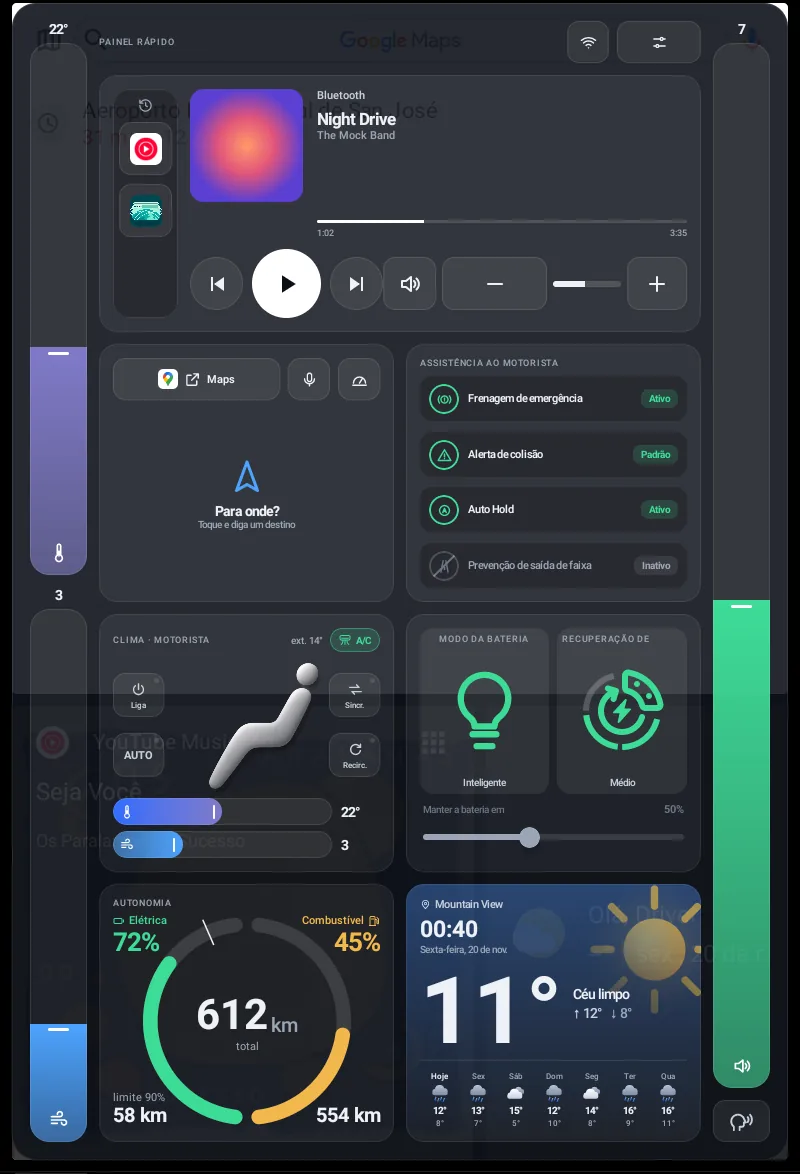
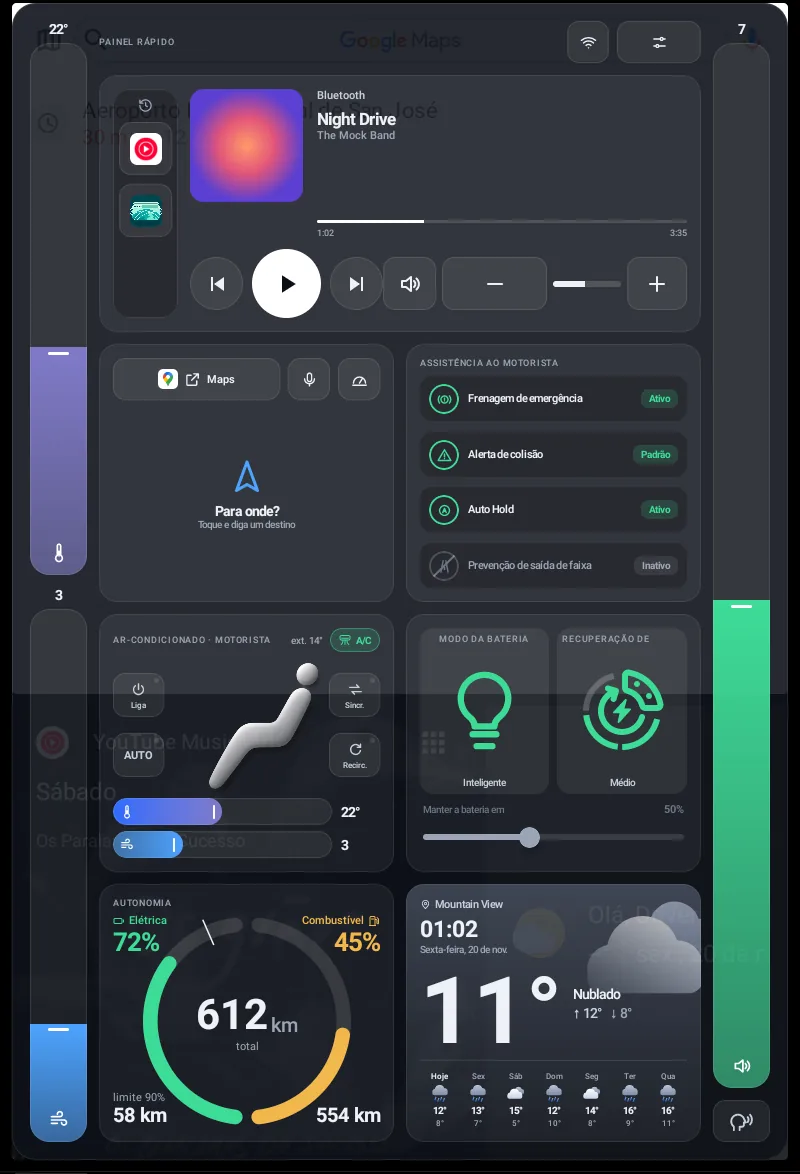
Call the climate widget Ar-condicionado in pt-BR
"Clima" named both the HVAC widget and the weather widget. The HVAC
one, its drawer card label, power button and info-bar description now
say Ar-condicionado; weather keeps Clima. The Portuguese site and its
settings and drawer screenshots follow.

diff --git a/docs/pt/index.html b/docs/pt/index.html
@@ -29,14 +29,14 @@
       <div>
         <div class="eyebrow">Jaecoo 7 · Android Automotive 11</div>
         <h1>Seu carro a um <em>deslize</em>.</h1>
-        <p class="lead">Uma gaveta de vidro que flutua sobre todos os apps da central: mídia, clima, modo da bateria, autonomia, navegação e assistência ao motorista, para ler de relance e controlar com um dedo.</p>
+        <p class="lead">Uma gaveta de vidro que flutua sobre todos os apps da central: mídia, ar-condicionado, modo da bateria, autonomia, navegação e assistência ao motorista, para ler de relance e controlar com um dedo.</p>
         <div class="actions">
           <a class="btn primary" href="#setup-section">Configurar por esta página</a>
           <a class="btn" href="https://github.com/carlosrpg/QuickSettings/releases/latest">Baixar o APK</a>
         </div>
       </div>
       <div class="device">
-        <img src="../img/full-pt.webp" width="800" height="1174" alt="QuickSettings totalmente aberto sobre a tela inicial: cartões de mídia, navegação, assistência, clima, modo da bateria, autonomia e tempo">
+        <img src="../img/full-pt.webp" width="800" height="1174" alt="QuickSettings totalmente aberto sobre a tela inicial: cartões de mídia, navegação, assistência, ar-condicionado, modo da bateria, autonomia e tempo">
       </div>
     </div>
   </section>
@@ -48,15 +48,15 @@
       <div class="carousel" aria-roledescription="carrossel">
         <div class="track" tabindex="0">
           <article class="slide">
-            <figure><div class="bars" role="img" aria-label="Barra de informações com mídia, bateria, combustível, recuperação de energia e clima; com rota, a próxima manobra e um anel de autonomia">
+            <figure><div class="bars" role="img" aria-label="Barra de informações com mídia, bateria, combustível, recuperação de energia e ar-condicionado; com rota, a próxima manobra e um anel de autonomia">
               <span>Sem rota</span><div class="topbar" data-variant="full"></div>
               <span>Com rota</span><div class="topbar" data-variant="nav"></div>
             </div></figure>
-            <div><div class="kicker">Barra superior</div><h3>Informações ao lado do relógio</h3><p>Mídia, bateria e combustível com a autonomia de cada um, recuperação de energia e clima ficam na própria barra superior do carro. Com uma rota, a próxima manobra entra junto e a autonomia vira um anel. Ela sai da frente enquanto um app em tela cheia, como o Android Auto, esconde essa barra.</p></div>
+            <div><div class="kicker">Barra superior</div><h3>Informações ao lado do relógio</h3><p>Mídia, bateria e combustível com a autonomia de cada um, recuperação de energia e ar-condicionado ficam na própria barra superior do carro. Com uma rota, a próxima manobra entra junto e a autonomia vira um anel. Ela sai da frente enquanto um app em tela cheia, como o Android Auto, esconde essa barra.</p></div>
           </article>
           <article class="slide">
             <figure><img src="../img/full-pt.webp" width="800" height="1174" loading="lazy" alt="Gaveta totalmente aberta com cartões grandes"></figure>
-            <div><div class="kicker">Gaveta completa</div><h3>Todos os controles num deslize</h3><p>Deslize para baixo logo abaixo da barra superior, mesmo sobre um app em tela cheia, para os cartões grandes: mídia com controles e volume, navegação, assistência com as travas originais, o banco do clima, modo da bateria e regeneração, autonomia e tempo. Os controles de temperatura e ventilação ficam nas laterais.</p></div>
+            <div><div class="kicker">Gaveta completa</div><h3>Todos os controles num deslize</h3><p>Deslize para baixo logo abaixo da barra superior, mesmo sobre um app em tela cheia, para os cartões grandes: mídia com controles e volume, navegação, assistência com as travas originais, o banco do ar-condicionado, modo da bateria e regeneração, autonomia e tempo. Os controles de temperatura e ventilação ficam nas laterais.</p></div>
           </article>
           <article class="slide">
             <figure><img src="../img/settings-pt.webp" width="800" height="1174" loading="lazy" alt="Tela de ajustes com posição da gaveta, opções da alça e lista de widgets"></figure>
@@ -64,7 +64,7 @@
           </article>
           <article class="slide">
             <figure><img src="../img/semi-pt.webp" width="800" height="1174" loading="lazy" alt="Meia gaveta na borda esquerda com blocos pequenos"></figure>
-            <div><div class="kicker">Barra lateral</div><h3>Meia gaveta, de relance</h3><p>Toque na alça na borda da tela e entra uma coluna de blocos pequenos: capa do álbum, o quadrante do clima, modo da bateria e regeneração, anéis de autonomia, próxima manobra, assistência e tempo. Pressione e arraste um bloco para mudá-lo sem abrir nada.</p></div>
+            <div><div class="kicker">Barra lateral</div><h3>Meia gaveta, de relance</h3><p>Toque na alça na borda da tela e entra uma coluna de blocos pequenos: capa do álbum, o quadrante do ar-condicionado, modo da bateria e regeneração, anéis de autonomia, próxima manobra, assistência e tempo. Pressione e arraste um bloco para mudá-lo sem abrir nada.</p></div>
           </article>
           <article class="slide">
             <figure><img src="../img/wifi-pt.webp" width="752" height="268" loading="lazy" alt="Seção Wi-Fi com Abrir automaticamente ligado e a escolha do celular"></figure>
@@ -96,7 +96,7 @@
         </article>
         <article class="card">
           <div class="icon" style="background:rgba(255,122,46,.15);color:var(--warm)"><svg viewBox="0 0 24 24" fill="none" stroke="currentColor" stroke-width="2" stroke-linecap="round"><path d="M14 14.76V3.5a2.5 2.5 0 0 0-5 0v11.26a4.5 4.5 0 1 0 5 0z"/></svg></div>
-          <h3>Clima</h3>
+          <h3>Ar-condicionado</h3>
           <p>Um quadrante temperatura × ventilação: arraste o marcador e o valor é aplicado ao soltar. Liga/desliga, automático, sincronia de zonas e recirculação seguem o estado do carro.</p>
         </article>
         <article class="card">
